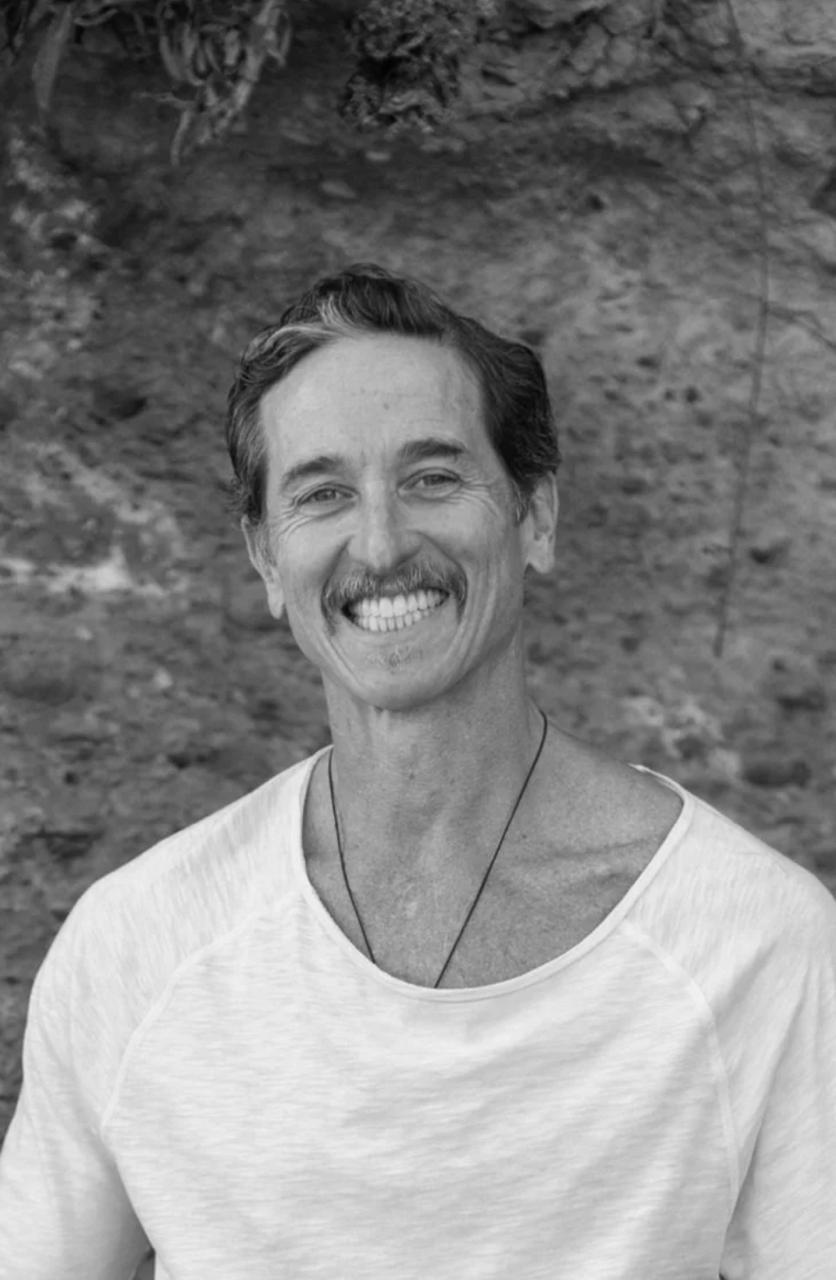
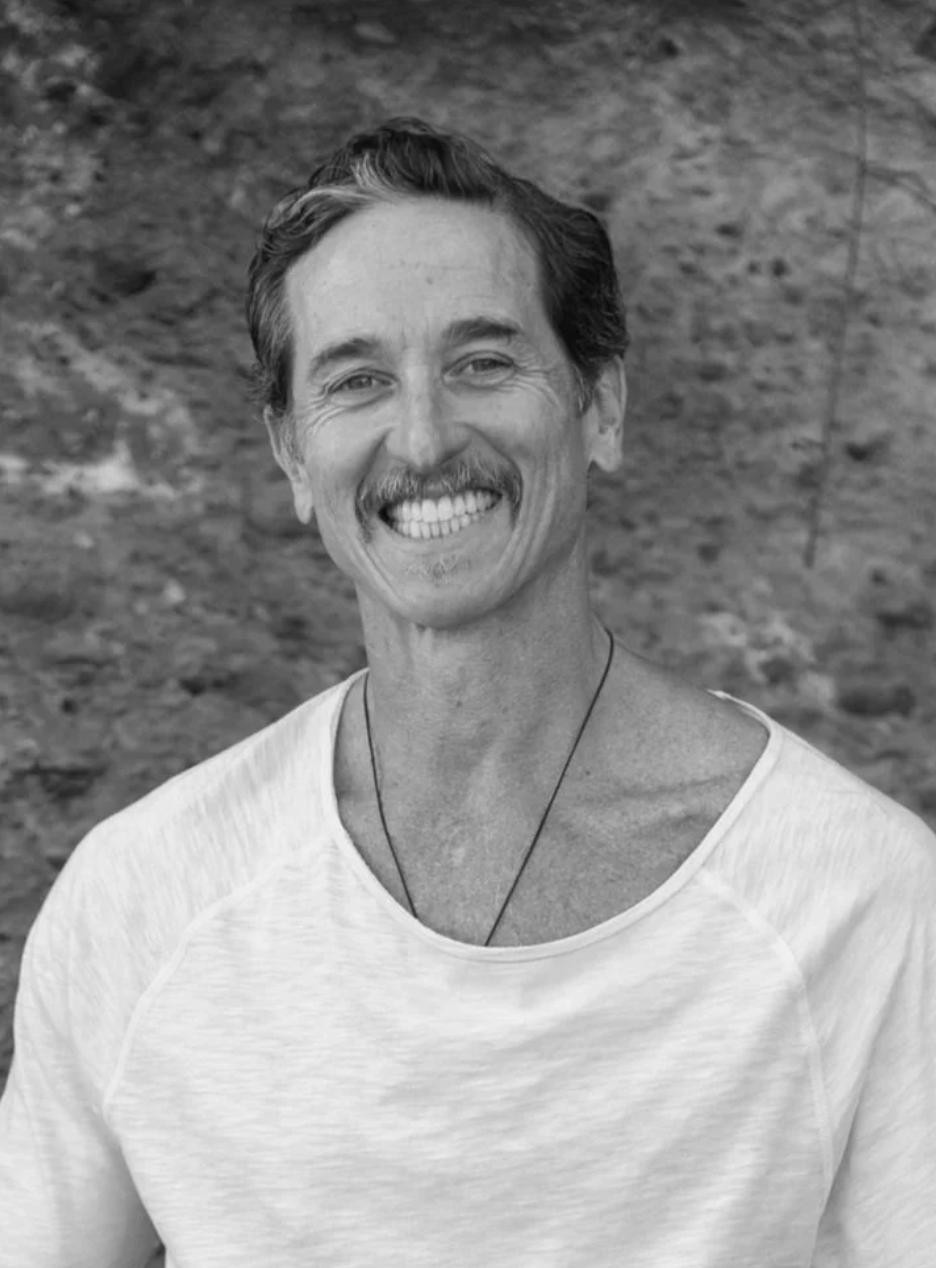
Use Justin's tighter Jason portrait as the main photo.
Replaces the old crop on homepage Meet Dr. J and About team, and lifts the crop so his face is not cut.

diff --git a/about.html b/about.html
@@ -75,6 +75,7 @@ a{text-decoration:none;color:inherit}
 .team-card{background:rgba(255,255,255,0.03);border:1px solid rgba(255,255,255,0.06);padding:0 0 40px;overflow:hidden;transition:all .4s var(--transition)}
 .team-card:hover{border-color:rgba(196,162,101,0.2);transform:translateY(-4px)}
 .team-photo{display:block;width:100%;aspect-ratio:4/5;object-fit:cover;object-position:center 18%;filter:grayscale(1);border-bottom:1px solid rgba(196,162,101,0.18)}
+.team-photo[alt="Dr. Jason Amstutz"]{object-position:center 8%}
 .team-card h3{font-family:var(--serif);font-size:1.6rem;color:#fff;margin:28px 40px 8px}
 .team-card .role{font-size:.7rem;font-weight:600;letter-spacing:.15em;text-transform:uppercase;color:var(--gold);margin:0 40px 20px;display:block}
 .team-card .creds{font-size:.75rem;color:var(--muted);margin:0 40px 16px;letter-spacing:.05em;display:block}
@@ -256,7 +257,7 @@ a{text-decoration:none;color:inherit}
     <h2 style="font-family:var(--serif);font-size:clamp(2rem,3.5vw,3rem);font-weight:400;color:#fff;text-align:center;margin-top:8px">The Minds Behind <em style="font-style:italic;color:var(--gold)">LINK Pro</em></h2>
     <div class="team-grid">
       <div class="team-card reveal visible">
-        <img class="team-photo" src="images/jason.jpg" alt="Dr. Jason Amstutz">
+        <img class="team-photo" src="images/jason.jpg?v=2" alt="Dr. Jason Amstutz">
         <h3>Dr. Jason Amstutz</h3>
         <span class="role">Founder & Lead Practitioner</span>
         <span class="creds">DC, CCSP*, RTP, CSCS</span>

diff --git a/index.html b/index.html
@@ -920,7 +920,7 @@ ul { list-style: none; }
 }
 .drj__image-photo {
   position: absolute; inset: 0; width: 100%; height: 100%;
-  object-fit: cover; object-position: center 18%;
+  object-fit: cover; object-position: center 8%;
   display: block;
   filter: grayscale(1) contrast(1.05);
 }
@@ -1928,7 +1928,7 @@ ul { list-style: none; }
     <div class="drj__grid">
       <div class="drj__image reveal">
         <div class="drj__image-inner">
-          <img class="drj__image-photo" src="images/jason.jpg" alt="Dr. Jason Amstutz">
+          <img class="drj__image-photo" src="images/jason.jpg?v=2" alt="Dr. Jason Amstutz">
         </div>
         <div class="drj__image-overlay">
           <div class="drj__image-tag">Founder & Lead Practitioner</div>
